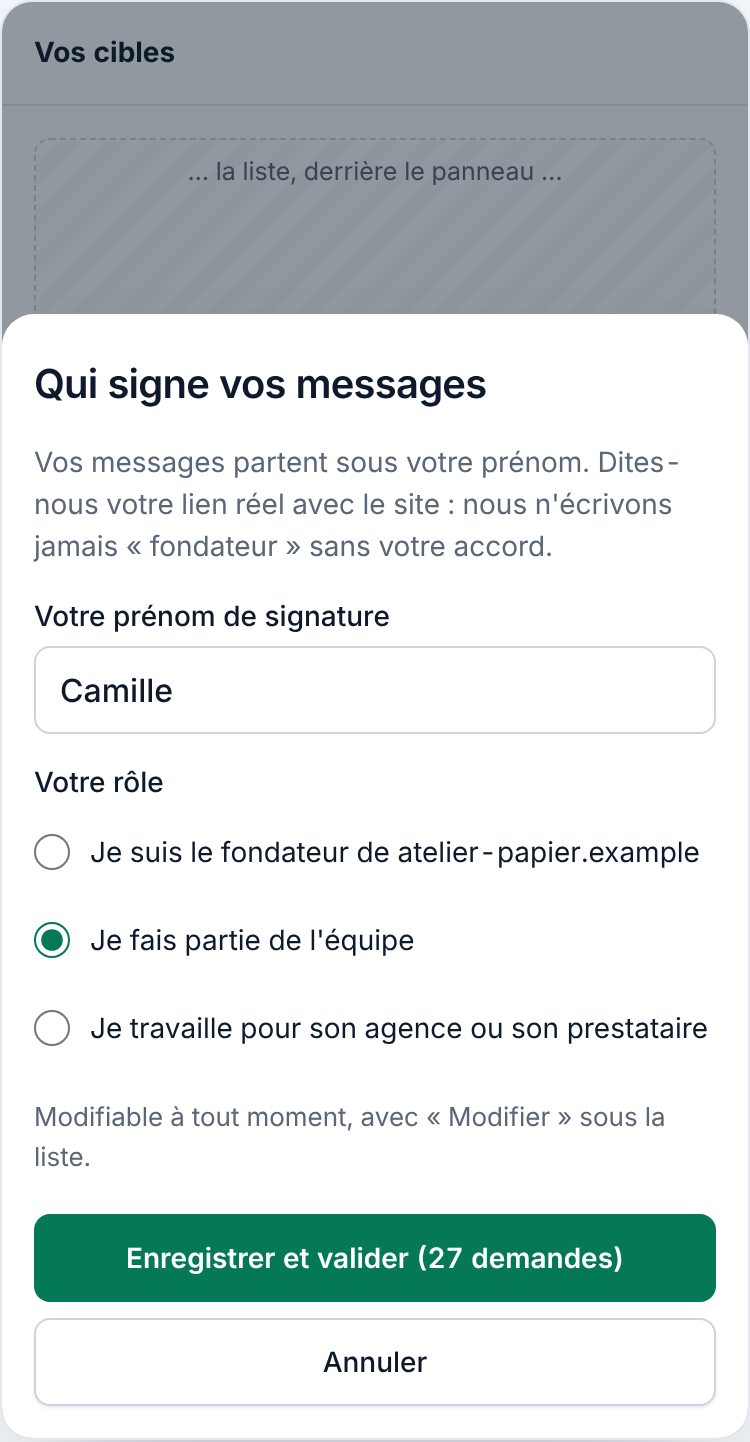
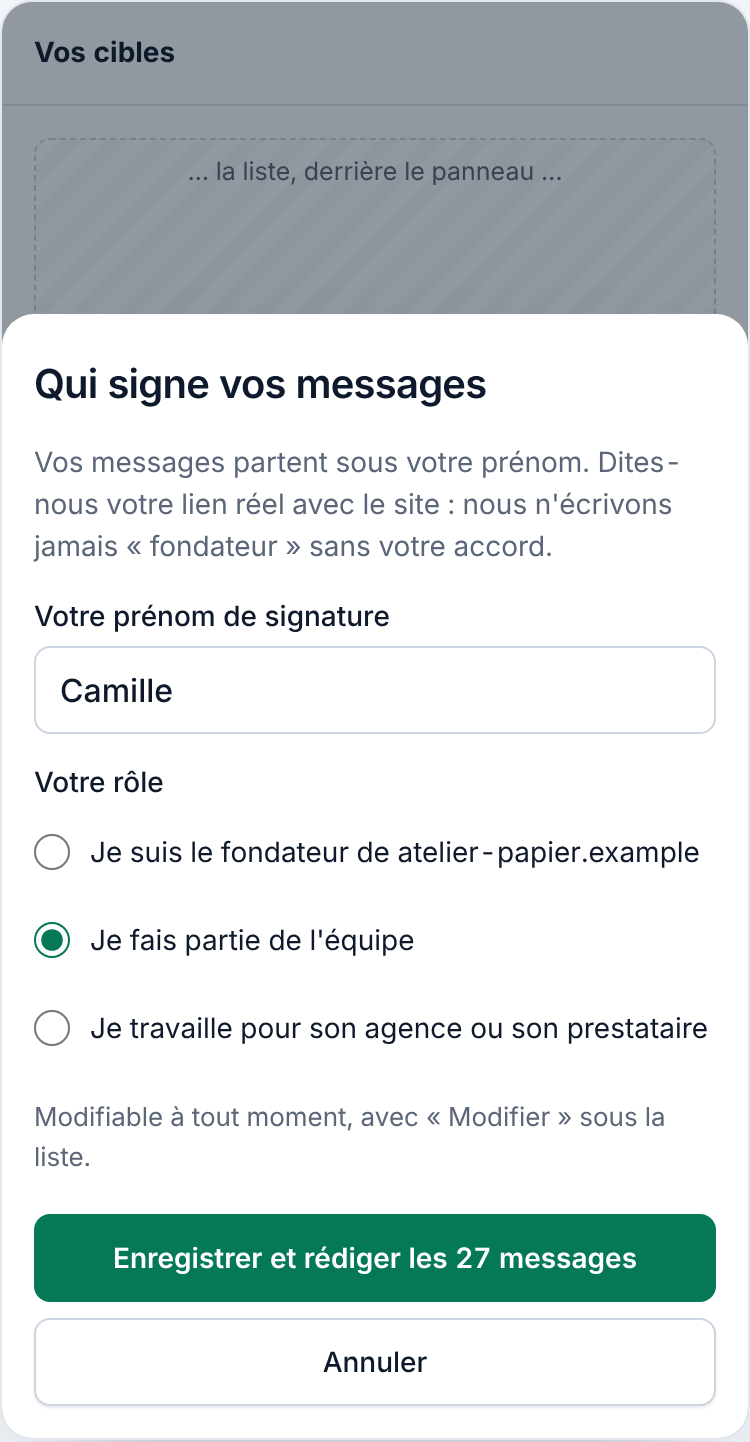
Maquette « Vos cibles », bas de l'écran : décisions de Jonathan (variante A, « Tout retenir », « Rédiger les N messages »)
Claude-Session: https://claude.ai/code/session_01PAPr5dkRPhRPJW5PRPaSCb

Changed region(s): [[0.1533, 0.8426, 0.828, 0.905]]

diff --git a/docs/mockups/vos-cibles-bas.html b/docs/mockups/vos-cibles-bas.html
@@ -727,7 +727,7 @@
         <h1>« Vos cibles » : le bas de l'écran</h1>
         <p>
           Maquette à valider avant tout codage (18/11/2026). Rien n'est branché : données de
-          démonstration, domaines en « .example ». Les cases, « Tout cocher » et « Tout décocher »
+          démonstration, domaines en « .example ». Les cases, « Tout retenir » et « Tout écarter »
           fonctionnent dans la maquette pour voir la barre réagir ; les cadres « pendant le
           défilement » défilent vraiment.
         </p>
@@ -806,7 +806,7 @@
         <h2>Proposition A (recommandée) : la barre suit la liste</h2>
         <p>
           Choisir et valider sont séparés. Au-dessus de la liste : le compteur et deux vrais boutons
-          « Tout cocher » et « Tout décocher ». En bas de l'écran, tant qu'on parcourt la liste :
+          « Tout retenir » et « Tout écarter ». En bas de l'écran, tant qu'on parcourt la liste :
           une barre avec une seule action verte. Arrivée en fin de liste, la barre se pose sous le
           tableau et ne recouvre plus rien. Viennent ensuite la carte de la lecture des autres sites
           (inchangée), les sites sans contact présentés comme les cibles, et une phrase sur
@@ -837,9 +837,9 @@
       <section class="state" id="signature">
         <h2>« Avant de rédiger vos messages » : une fenêtre, plus une section</h2>
         <p>
-          Cette question n'a pas sa place dans la page. Elle s'ouvre seulement au clic sur « Valider
-          ces demandes », et seulement tant que le prénom ou le rôle manque. Une fois renseignés,
-          une ligne discrète sous la barre les rappelle, avec « Modifier ».
+          Cette question n'a pas sa place dans la page. Elle s'ouvre seulement au clic sur le bouton
+          vert, et seulement tant que le prénom ou le rôle manque. Une fois renseignés, une ligne
+          discrète sous la barre les rappelle, avec « Modifier ».
         </p>
         <div class="frames">
           <div>
@@ -1047,7 +1047,8 @@
         </div></li>`;
       }
 
-      const bar = () => `<div class="bar" role="region" aria-label="Valider les demandes retenues">
+      const bar =
+        () => `<div class="bar" role="region" aria-label="Rédiger les messages des demandes retenues">
           <p class="txt"><strong data-count aria-live="polite"></strong><span data-sub></span></p>
           <a class="btn o seen" href="#">Voir les messages rédigés (12)</a>
           <button type="button" class="btn p w" data-go></button>
@@ -1061,8 +1062,8 @@
           <div class="sec">
             <div class="tools">
               <p class="cnt"><span data-top></span></p>
-              <button type="button" class="btn o sm" data-all>Tout cocher</button>
-              <button type="button" class="btn o sm" data-none>Tout décocher</button>
+              <button type="button" class="btn o sm" data-all>Tout retenir</button>
+              <button type="button" class="btn o sm" data-none>Tout écarter</button>
               <button type="button" class="btn p sm vb" data-go></button>
             </div>
             <div class="card table">
@@ -1117,7 +1118,7 @@
           </fieldset>
           <p class="mut sm-t">Modifiable à tout moment, avec « Modifier » sous la liste.</p>
           <div class="acts">
-            <button type="submit" class="btn p w">Enregistrer et valider (27 demandes)</button>
+            <button type="submit" class="btn p w">Enregistrer et rédiger les 27 messages</button>
             <button type="button" class="btn o w">Annuler</button>
           </div>
         </form>`;
@@ -1142,7 +1143,12 @@
                 ? "Rien n'est envoyé"
                 : "Rien n'est envoyé maintenant : nous rédigeons les messages, vous les relisez avant tout envoi.";
           frame.querySelectorAll("[data-go]").forEach((b) => {
-            b.textContent = `Valider ces demandes (${n})`;
+            b.textContent =
+              n === 0
+                ? "Rédiger les messages"
+                : n === 1
+                  ? "Rédiger le message"
+                  : `Rédiger les ${n} messages`;
             b.disabled = n === 0;
           });
         };

diff --git a/docs/mockups/vos-cibles-bas.md b/docs/mockups/vos-cibles-bas.md
@@ -1,6 +1,6 @@
 # Maquette « Vos cibles », bas de l'écran (18/11/2026)
 
-**À valider par Jonathan avant tout codage.** Fichier : `docs/mockups/vos-cibles-bas.html` (à ouvrir dans un navigateur ; captures ci-dessous). Rien n'est branché, aucun fichier de `src/` n'est modifié. Données de démonstration, domaines en « .example ».
+**Décisions de Jonathan du 18/11/2026 notées en fin de document : variante A retenue, à coder.** Fichier : `docs/mockups/vos-cibles-bas.html` (à ouvrir dans un navigateur ; captures ci-dessous). Rien n'est branché, aucun fichier de `src/` n'est modifié. Données de démonstration, domaines en « .example ».
 
 Point de départ : le bas de `src/features/targets/targets-screen.tsx` tel qu'il est dans `main` après la PR 172.
 
@@ -26,8 +26,8 @@ Le bas de page en entier : [bureau](img/vos-cibles-bas-a-bureau.png), [télépho
 
 | Choix                                                                                                                                                                                                                                               | Répond à |
 | --------------------------------------------------------------------------------------------------------------------------------------------------------------------------------------------------------------------------------------------------- | -------- |
-| **Choisir et valider sont séparés.** Au-dessus de la liste : « 27 sites retenus sur 64 » et deux vrais boutons à contour, « Tout cocher » et « Tout décocher » (côte à côte, pleine largeur sur téléphone).                                         | 3        |
-| **Une barre, une seule action verte** : « Valider ces demandes (27) ». À gauche, le compteur et une phrase : « Rien n'est envoyé maintenant : nous rédigeons les messages, vous les relisez avant tout envoi. »                                     | 3        |
+| **Choisir et valider sont séparés.** Au-dessus de la liste : « 27 sites retenus sur 64 » et deux vrais boutons à contour, « Tout retenir » et « Tout écarter » (côte à côte, pleine largeur sur téléphone).                                         | 3        |
+| **Une barre, une seule action verte** : « Rédiger les 27 messages ». À gauche, le compteur et une phrase : « Rien n'est envoyé maintenant : nous rédigeons les messages, vous les relisez avant tout envoi. »                                       | 3        |
 | **La barre suit la liste, puis se pose.** Elle reste en bas de l'écran tant qu'on parcourt les cibles ; en fin de liste elle se range sous le tableau et ne recouvre plus la suite.                                                                 | 3, 5     |
 | **Sur téléphone**, la barre est collée au bord bas, sur toute la largeur : compteur sur une ligne, bouton vert de 44 px. Le bouton secondaire passe sous la liste.                                                                                  | 3        |
 | **« Voir les messages et le lot » devient « Voir les messages rédigés (12) »**, vrai bouton à contour, affiché seulement s'il existe déjà des messages. Le mot « lot » disparaît des textes.                                                        | 3        |
@@ -35,7 +35,7 @@ Le bas de page en entier : [bureau](img/vos-cibles-bas-a-bureau.png), [télépho
 | **Les sites sans contact deviennent une vraie section**, « 6 sites pertinents, sans contact trouvé », avec les mêmes lignes que la liste (site, type, raison, demande, détail au clic). Pas de case à cocher : ils ne font pas partie des demandes. | 1        |
 | **Un bouton « Ouvrir la page » sur chaque ligne** (nouvel onglet) mène à la page que nous avons lue, pour y chercher soi-même un contact.                                                                                                           | 1        |
 | **« Vos concurrents sur Google » quitte cet écran.** À la place, deux phrases « D'où vient cette liste » et le lien « Voir le détail de l'analyse », où la liste des concurrents a sa place.                                                        | 2        |
-| **« Avant de rédiger vos messages » devient une fenêtre** (« Qui signe vos messages »), ouverte au clic sur « Valider ces demandes » et seulement si le prénom ou le rôle manque. Sur téléphone, un panneau qui monte du bas.                       | 4        |
+| **« Avant de rédiger vos messages » devient une fenêtre** (« Qui signe vos messages »), ouverte au clic sur le bouton vert et seulement si le prénom ou le rôle manque. Sur téléphone, un panneau qui monte du bas.                                 | 4        |
 | **Ordre du bas de page** : liste, barre, rappel de signature, carte de la lecture des autres sites (inchangée), sites sans contact, origine de la liste.                                                                                            | 5        |
 
 Fenêtre de signature : [bureau](img/vos-cibles-bas-signature-bureau.png), [téléphone](img/vos-cibles-bas-signature-mobile.png).
@@ -67,11 +67,16 @@ Le bouton vert est en haut de la liste, à côté du compteur, et répété en f
 
 Vrais boutons et vrais liens, focus visible (2 px, vert), contrastes des jetons du projet, cases de 20 px et cibles de 40 à 44 px sur téléphone, compteur annoncé aux lecteurs d'écran, « Ouvrir la page » précise le site et le nouvel onglet. Téléphone : marges de 16 px, aucun défilement horizontal (vérifié par le script de capture).
 
-## Décisions à prendre par Jonathan
+## Décisions de Jonathan (18/11/2026)
 
-1. **Barre** : A (collante, recommandée) ou B (en haut et en fin de liste).
-2. **Mots des boutons** : « Tout cocher » et « Tout décocher » (maquette) à la place de « Tout retenir » et « Tout écarter ». « Écarter » laissait croire que les sites étaient supprimés.
-3. **Bouton vert** : garder « Valider ces demandes (27) » (maquette), ou dire ce qui se passe, par exemple « Rédiger les 27 messages ».
-4. **Concurrents** : les retirer de cet écran et garder les deux phrases « D'où vient cette liste » (recommandé), ou tout retirer et ne laisser que le lien.
-5. **Sans contact** : une seule section qui réunit aussi les « mentions sans lien, sans contact » (maquette), ou deux sections comme aujourd'hui.
-6. **Signature** : une fenêtre au moment de valider (maquette), ou la demander plus tôt, une fois pour toutes, à l'inscription du site.
+1. **Barre** : variante A, la barre collante qui suit la liste.
+2. **Mots des boutons** : on garde « Tout retenir » et « Tout écarter » (pas « Tout cocher » ni « Tout décocher »), mais en vrais boutons à contour.
+3. **Bouton vert** : « Rédiger les 27 messages » (« Rédiger le message » pour un seul ; grisé, « Rédiger les messages », si rien n'est retenu). La fenêtre de signature suit : « Enregistrer et rédiger les 27 messages ».
+4. **Concurrents** : retirés de cet écran ; restent les deux phrases « D'où vient cette liste » et le lien « Voir le détail de l'analyse ».
+
+Sans réponse, donc codé comme dans la maquette sauf avis contraire :
+
+5. **Sans contact** : une seule section, qui réunit aussi les « mentions sans lien, sans contact ».
+6. **Signature** : une fenêtre au moment de rédiger, seulement si le prénom ou le rôle manque.
+
+La maquette et les captures sont à jour de ces décisions.
